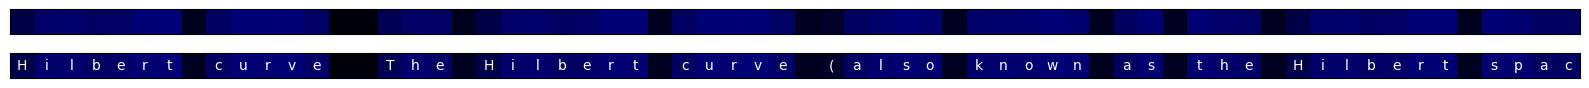
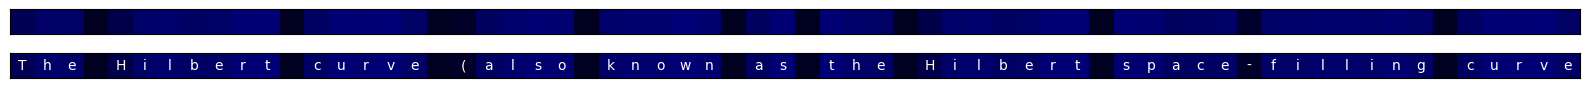
Fix typos + remove the title from the RGB encoding images

diff --git a/articles/fractal.md b/articles/fractal.md
@@ -93,7 +93,7 @@ The 2D scheme is practical to illustrate the concepts, but the Hilbert curve can
 
 ![][image-3d-hilbert-curve]
 
-[image-2d-asciiart]: .assets/2d/ascii
+[image-2d-asciiart]: .assets/2d/asciiart.png
 [image-2d-chunk]: .assets/2d/chunk.english.png
 [image-2d-split]: .assets/2d/split.english.png
 
